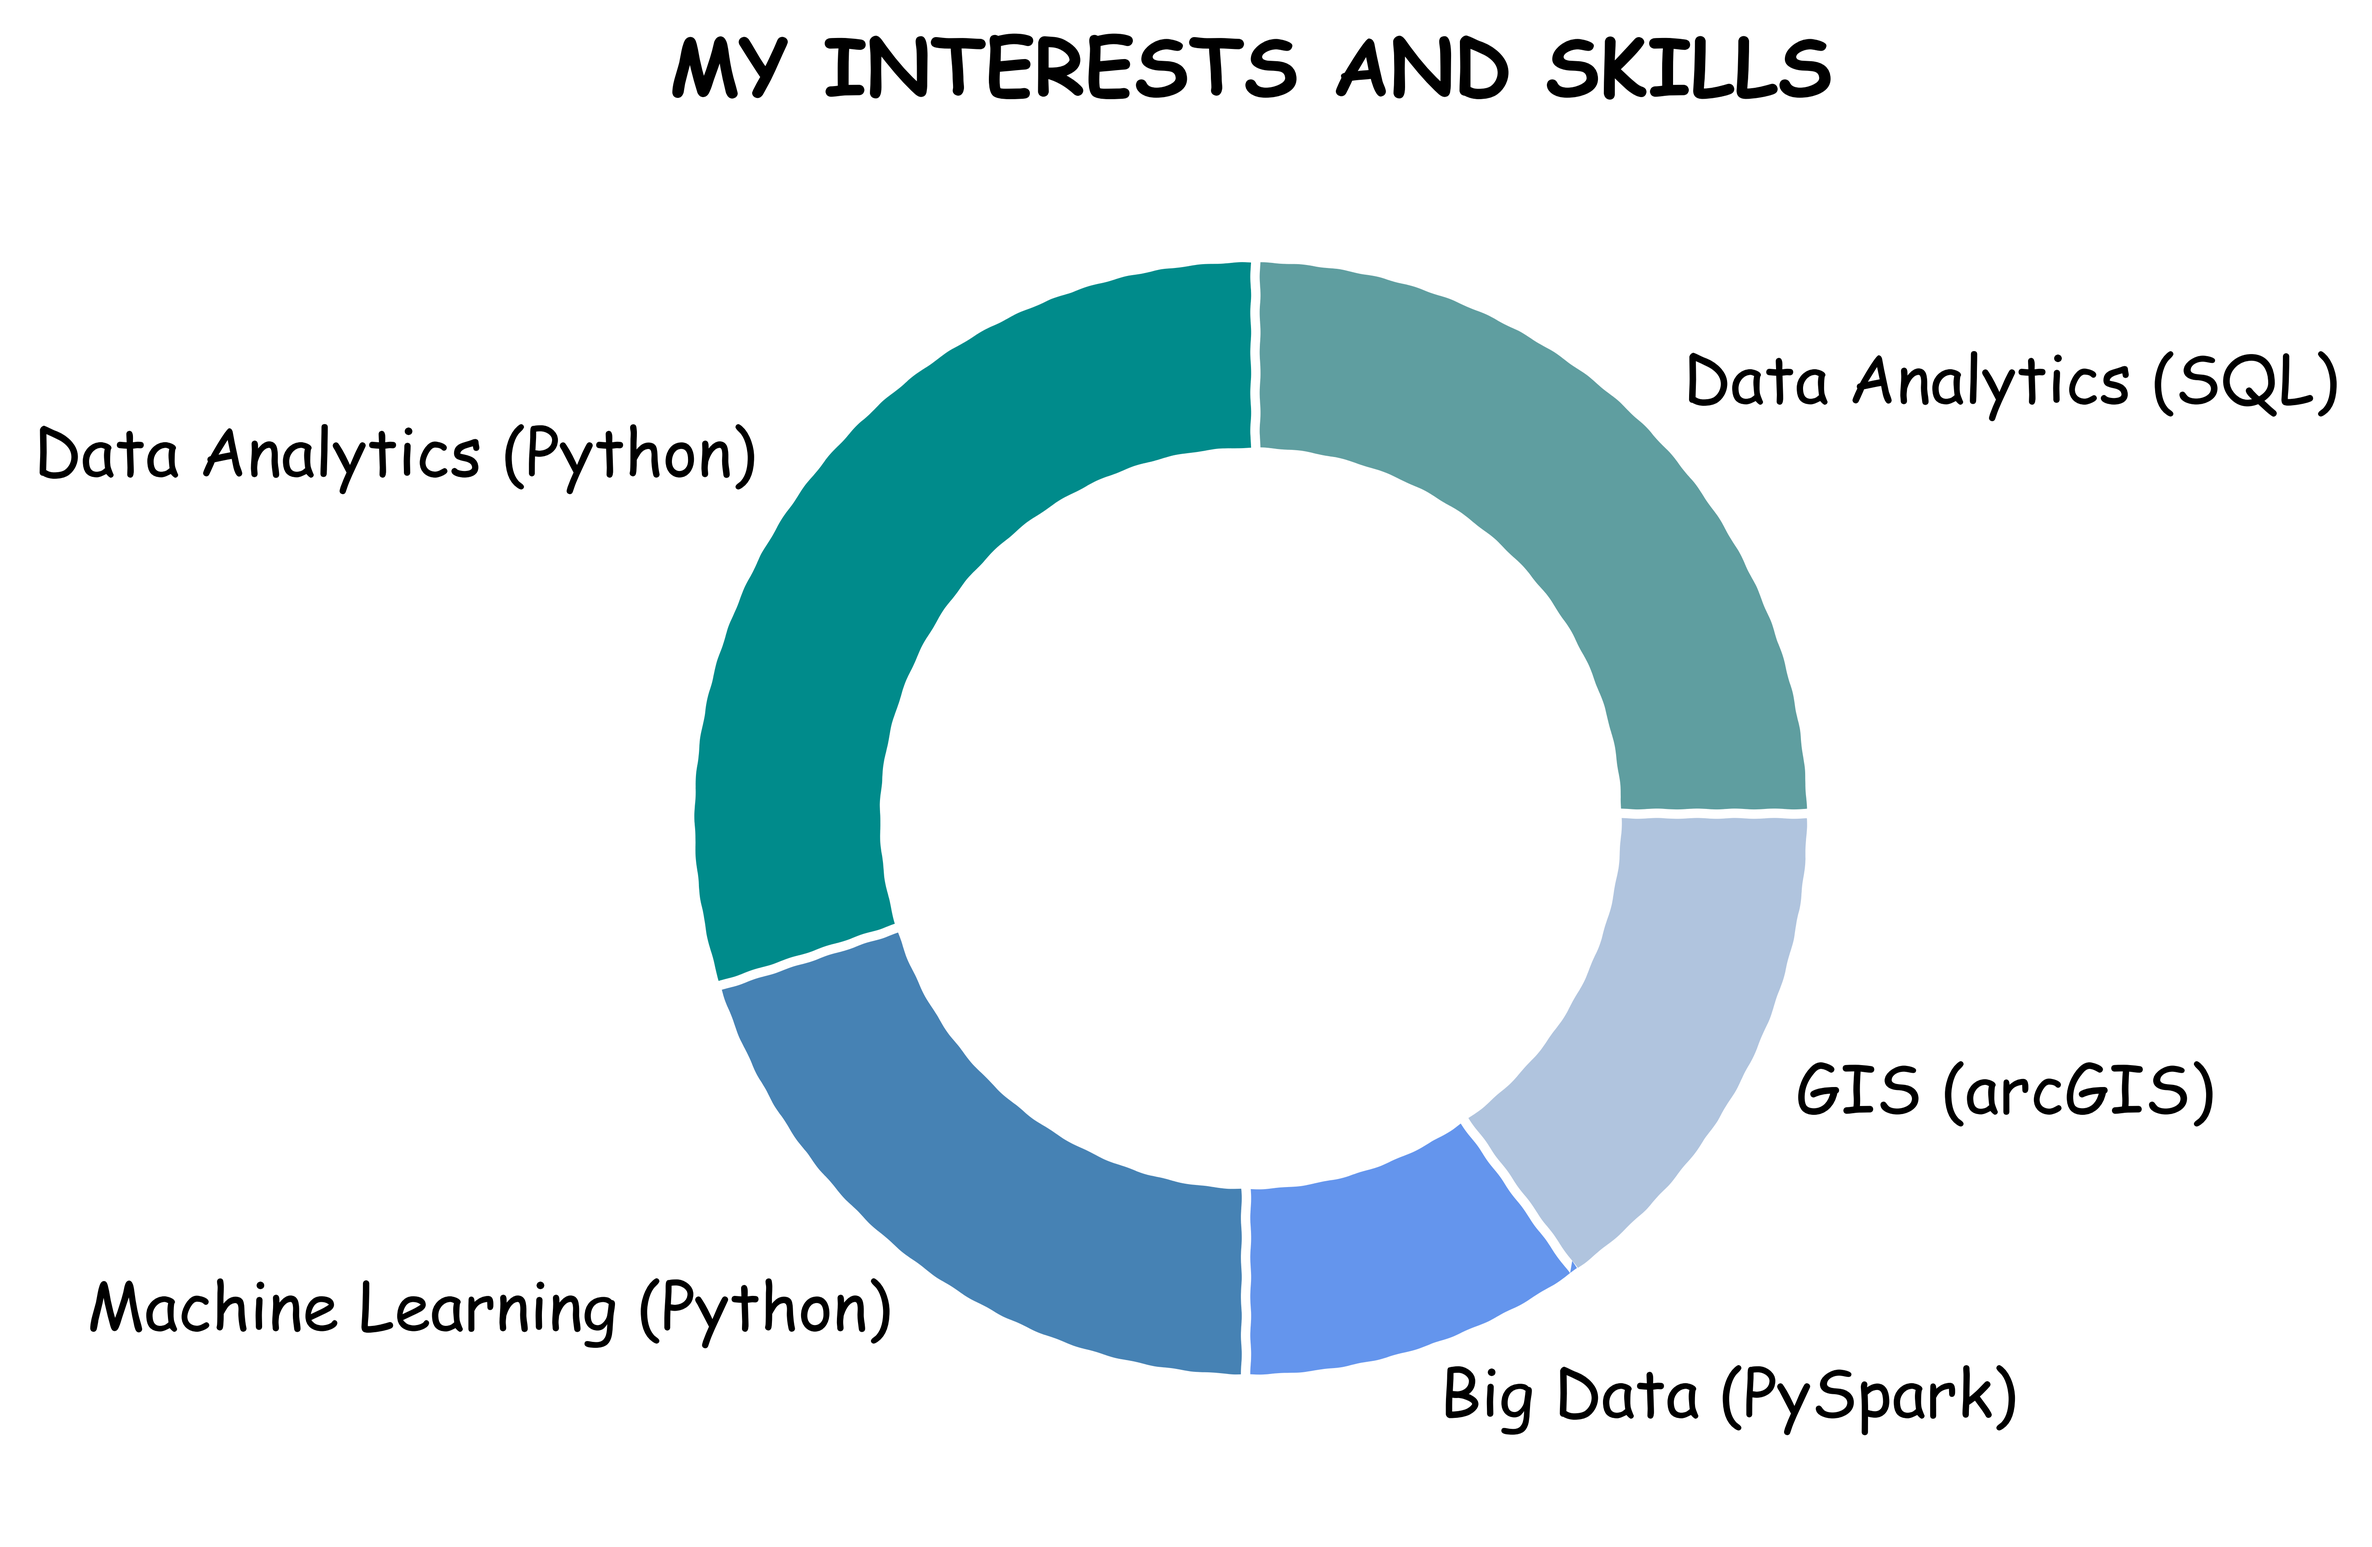
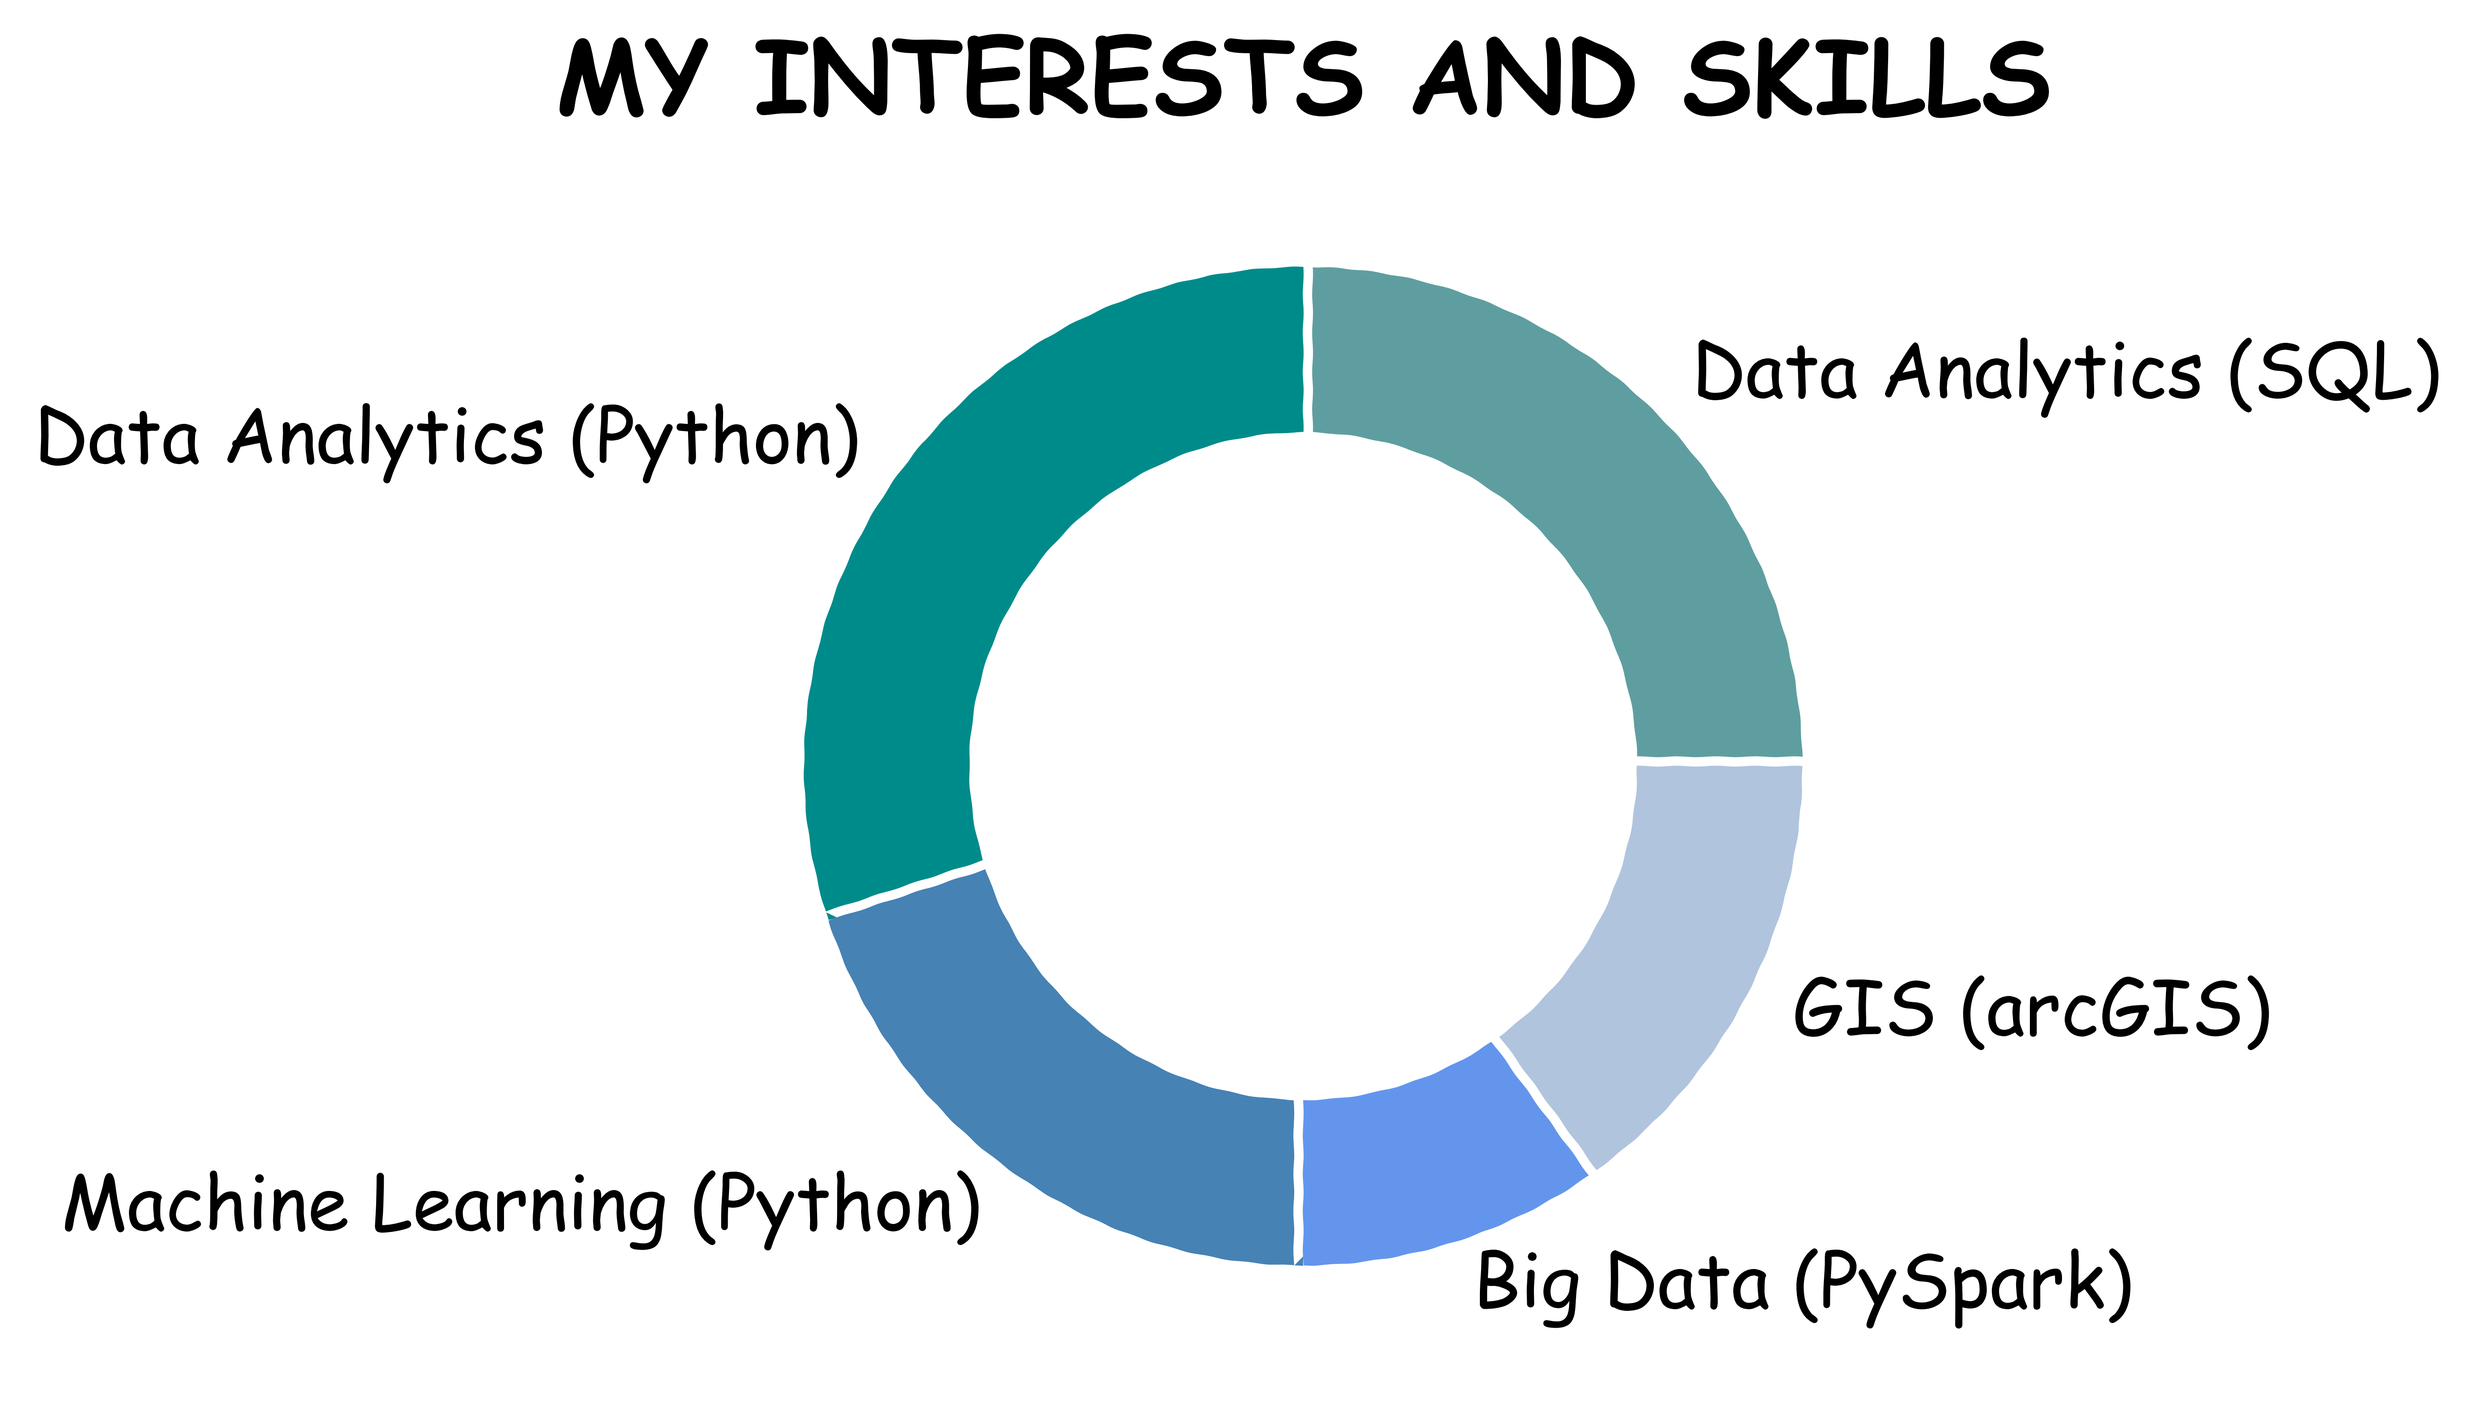
change image

diff --git a/README.md b/README.md
@@ -58,7 +58,7 @@ The use of data to better understand consumer behavior
 Social listening to enhance consumer experience
 
 Geographic data analytics...
-<img class="Graph"  src="assets/my_interests_and_skills.png" atl="Donut chart with interests and skills"  width="360" height="280">
+<img class="Graph"  src="assets/my_interests_and_skills.png" atl="Donut chart with interests and skills"  width="340" height="260">
 
 Data Science
 
